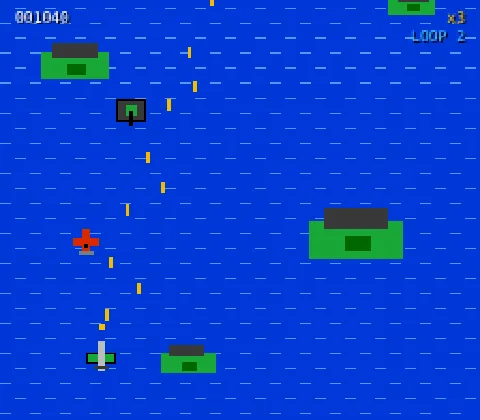
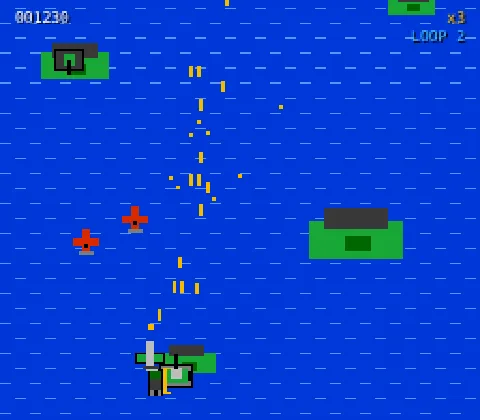
Skyfire 42: add archer unit
Claude-Session: https://claude.ai/code/session_01TLKWsn45b5mPjBKpKawYZm

diff --git a/games/skyfire-42/index.html b/games/skyfire-42/index.html
@@ -81,7 +81,7 @@ button:focus-visible{outline:2px solid #fff;outline-offset:2px}
       <button type="button" data-k="start">START</button>
     </div>
   </section>
-  <p class="keys"><b>Keys:</b> At the start press Z for the PLANE or X for the TANK; the other is flown by the computer. Arrows move, hold Z or X to fire, the other button does a loop-the-loop (2 per game: dodge everything for a second). Shoot the red wave for POW, beat the big bomber. Enter starts, M mutes.</p>
+  <p class="keys"><b>Keys:</b> At the start pick PLANE, TANK or ARCHER with left/right and Z; the computer plays the other two. Arrows move, hold Z or X to fire, the other button does a loop-the-loop (2 per game: dodge everything for a second). Shoot the red wave for POW, beat the big bomber. Enter starts, M mutes.</p>
 </main>
 
 <script>
@@ -861,7 +861,7 @@ const RIG = (() => {
   return R;
 })();
 
-// KEYS: At the start press Z for the PLANE or X for the TANK; the other is flown by the computer. Arrows move, hold Z or X to fire, the other button does a loop-the-loop (2 per game: dodge everything for a second). Shoot the red wave for POW, beat the big bomber.
+// KEYS: At the start pick PLANE, TANK or ARCHER with left/right and Z; the computer plays the other two. Arrows move, hold Z or X to fire, the other button does a loop-the-loop (2 per game: dodge everything for a second). Shoot the red wave for POW, beat the big bomber.
 /* ===== G47 SKYFIRE 42: vertical scrolling shooter in the cabinet's simple blocky style. Formations of fighters, red waves that drop POW (twin / triple shot), bombers, loop-the-loop dodge, boss bomber at the end. ===== */
 const T47 = { spd:84, cd:.13, bul:210, ebul:62, lives:3, loops:2, loopT:.85, boss:{ t:50, hp:55 }, time:100 };
 const W47 = [  /* [time, kind, count] */ [2, 'zig', 5], [6, 'vee', 5], [10, 'side', 4], [14, 'red', 5], [18, 'zig', 6], [21, 'bomber', 1], [24, 'vee', 7], [28, 'side', 5], [32, 'red', 6], [36, 'zig', 7], [39, 'bomber', 2], [43, 'vee', 7], [46, 'red', 6]];
@@ -874,17 +874,18 @@ function spawn47(S, k, n) { const R = () => S.rng();
     if (k === 'side') { const dir = S.wave % 2 ? 1 : -1; e.x = dir > 0 ? -10 - i * 16 : 266 + i * 16; e.y = 30 + (i % 2) * 14; e.vx = dir * 62; e.vy = 14; }
     if (k === 'red') { e.x = 40 + i * 26; e.y = -10 - i * 12; e.vy = 46; e.sx = e.x; }
     S.en.push(e); } S.wave++; }
-function hit47(S,w){const P=w==='t'?S.t:S.p;if(P.inv>0)return;P.lives--;P.inv=2;P.pow=0;P.flash=.3;burst(S,P.x,P.y,O,12);ENG.impact(S,'weak');sfx('hit');}
+function hit47(S,w){const P=w==='t'?S.t:w==='a'?S.ar:S.p;if(P.inv>0)return;P.lives--;P.inv=2;P.pow=0;P.flash=.3;burst(S,P.x,P.y,O,12);ENG.impact(S,'weak');sfx('hit');}
 function aiPlane47(S, i) { const P = S.p; if (S.win) return i; i.a = 1; let best = P.x, bs = -1e9; for (let x = 12; x <= 244; x += 6) { let s = 0; for (const b of S.eb) { const dy = P.y - b.y; if (dy > -6 && dy < 70) { const t = Math.max(.05, Math.abs(dy) / Math.max(20, b.vy)), bx = b.x + b.vx * t, d = Math.abs(bx - x); if (d < 18) s -= (18 - d) * (70 - Math.abs(dy)) * .12; } } for (const e of S.en) { const dy = P.y - e.y; if (dy > -4 && dy < 40 && Math.abs(e.x - x) < 14) s -= 30; if (e.y < P.y && Math.abs(e.x - x) < 6) s += 8; } if (S.boss && Math.abs(S.boss.x - x) < 14) s += 14; for (const q of S.pw) s += Math.max(0, 40 - Math.abs(q.x - x)) * .3; s -= Math.abs(x - P.x) * .02; if (s > bs) { bs = s; best = x; } }
     if (best > P.x + 3) i.r = 1; else if (best < P.x - 3) i.l = 1; const danger = S.eb.some(b => Math.abs(b.x - P.x) < 7 && P.y - b.y > -4 && P.y - b.y < 20) || S.en.some(e => Math.abs(e.x - P.x) < 11 && Math.abs(e.y - P.y) < 14); const wantY = P.y < 180 ? 1 : 0; if (wantY) i.d = 1; if (danger && P.loops > 0 && P.inv <= 0 && P.loop <= 0 && S.rt % .2 < .1) { i.b = 1; } return i; }
-function aiTank47(S, i) { const T = S.t; i.a = 1; let best = T.x, bs = -1e9; for (let x = 12; x <= 244; x += 6) { let sc = 0; for (const b of S.eb) { const dy = T.y - b.y; if (dy > -6 && dy < 70) { const t = Math.max(.05, Math.abs(dy) / Math.max(20, b.vy)), bx = b.x + b.vx * t; if (Math.abs(bx - x) < 16) sc -= (16 - Math.abs(bx - x)) * (70 - Math.abs(dy)) * .12; } } for (const e of S.en.concat(S.gr)) if (e.y < T.y && Math.abs(e.x - x) < 6) sc += 6; if (S.boss && Math.abs(S.boss.x - x) < 12) sc += 14; sc -= Math.abs(x - T.x) * .02; if (sc > bs) { bs = sc; best = x; } } if (best > T.x + 3) i.r = 1; else if (best < T.x - 3) i.l = 1; return i; }
+function aiTank47(S, i, T0) { const T = T0 || S.t; i.a = 1; let best = T.x, bs = -1e9; for (let x = 12; x <= 244; x += 6) { let sc = 0; for (const b of S.eb) { const dy = T.y - b.y; if (dy > -6 && dy < 70) { const t = Math.max(.05, Math.abs(dy) / Math.max(20, b.vy)), bx = b.x + b.vx * t; if (Math.abs(bx - x) < 16) sc -= (16 - Math.abs(bx - x)) * (70 - Math.abs(dy)) * .12; } } for (const e of S.en.concat(S.gr)) if (e.y < T.y && Math.abs(e.x - x) < 6) sc += 6; if (S.boss && Math.abs(S.boss.x - x) < 12) sc += 14; sc -= Math.abs(x - T.x) * .02; if (sc > bs) { bs = sc; best = x; } } if (best > T.x + 3) i.r = 1; else if (best < T.x - 3) i.l = 1; return i; }
 const GAME = kit({ id:'g47', t1:'SKYFIRE', t2:'42', sub:'LOOP. SHOOT. SURVIVE.', seed:947, off:47, secs:60, music:MUS(158, -14, false),
-  setup(S) { S.p = pl47(); S.bul = []; S.en = []; S.eb = []; S.pw = []; S.rt = 0; S.wave = 0; S.wi = 0; S.boss = null; S.pA = 0; S.pB = 0; S.sy = 0; S.fx = []; S.redLeft = {}; S.kills = 0; S.win = 0; S.mode = null; S.t = { x:128, y:200, lives:3, inv:1.5, cd:0 }; S.gr = []; S.gn = 3; },
-  step(S, dt, inp0) { const P = S.p, C = T47, T = S.t; if (!S.mode) { if (inp0.a && !S.pA) S.mode = 'plane'; else if (inp0.b && !S.pB) S.mode = 'tank'; S.pA = inp0.a; S.pB = inp0.b; if (!S.mode) return; }
-    const inp = S.mode === 'plane' ? inp0 : aiPlane47(S, {}), it = S.mode === 'tank' ? inp0 : aiTank47(S, {}); if (S.mode === 'plane' && T.lives <= 0) T.lives = 3; if (S.mode === 'tank' && P.lives <= 0) P.lives = 3; S.rt += dt; T.cd -= dt; T.inv -= dt;
+  setup(S) { S.p = pl47(); S.bul = []; S.en = []; S.eb = []; S.pw = []; S.rt = 0; S.wave = 0; S.wi = 0; S.boss = null; S.pA = 0; S.pB = 0; S.sy = 0; S.fx = []; S.redLeft = {}; S.kills = 0; S.win = 0; S.mode = null; S.cur = 0; S.pl = 0; S.pr = 0; S.ar = { x:64, y:204, lives:3, inv:1.5, cd:0 }; S.t = { x:128, y:200, lives:3, inv:1.5, cd:0 }; S.gr = []; S.gn = 3; },
+  step(S, dt, inp0) { const P = S.p, C = T47, T = S.t; if (!S.mode) { if (inp0.r && !S.pr) S.cur = (S.cur + 1) % 3; if (inp0.l && !S.pl) S.cur = (S.cur + 2) % 3; if ((inp0.a && !S.pA) || (inp0.b && !S.pB)) S.mode = ['plane', 'tank', 'archer'][S.cur]; S.pr = inp0.r; S.pl = inp0.l; S.pA = inp0.a; S.pB = inp0.b; if (!S.mode) return; }
+    const inp = S.mode === 'plane' ? inp0 : aiPlane47(S, {}), it = S.mode === 'tank' ? inp0 : aiTank47(S, {}), ia = S.mode === 'archer' ? inp0 : aiTank47(S, {}, S.ar), A = S.ar; if (S.mode !== 'tank' && T.lives <= 0) T.lives = 3; if (S.mode !== 'plane' && P.lives <= 0) P.lives = 3; if (S.mode !== 'archer' && A.lives <= 0) A.lives = 3; A.cd -= dt; A.inv -= dt; S.rt += dt; T.cd -= dt; T.inv -= dt;
     { const dx = (it.r ? 1 : 0) - (it.l ? 1 : 0), dy = (it.d ? 1 : 0) - (it.u ? 1 : 0); T.x = Math.max(8, Math.min(248, T.x + dx * 52 * dt)); T.y = Math.max(150, Math.min(212, T.y + dy * 40 * dt)); if ((it.a || it.b) && T.cd <= 0) { T.cd = .3; S.bul.push({ x:T.x, y:T.y - 9, vx:0, vy:-170 }); } }
+    { const dx = (ia.r ? 1 : 0) - (ia.l ? 1 : 0), dy = (ia.d ? 1 : 0) - (ia.u ? 1 : 0); A.x = Math.max(6, Math.min(250, A.x + dx * 66 * dt)); A.y = Math.max(150, Math.min(214, A.y + dy * 50 * dt)); if ((ia.a || ia.b) && A.cd <= 0) { A.cd = .26; S.bul.push({ x:A.x - 2, y:A.y - 8, vx:0, vy:-215 }); S.bul.push({ x:A.x + 2, y:A.y - 8, vx:0, vy:-215 }); } }
     S.gn -= dt; if (S.gn <= 0 && S.rt < C.boss.t - 4) { S.gn = 2.6 + S.rng() * 1.6; const n = 1 + (S.rng() * 2 | 0); for (let q = 0; q < n; q++) S.gr.push({ k:q % 3 === 2 ? 'gun' : 'gt', x:30 + S.rng() * 196, y:-12 - q * 22, hp:q % 3 === 2 ? 3 : 2, t:0, shot:1.5 + S.rng() * 2, vx:(S.rng() - .5) * 18 }); }
-    for (const g of S.gr) { g.t += dt; g.y += 28 * dt; if (g.k === 'gt') g.x += g.vx * dt; g.shot -= dt; if (g.shot <= 0 && g.y > 4 && g.y < 150) { g.shot = 2.4 + S.rng() * 1.6; const a = Math.atan2(T.y - g.y, T.x - g.x); S.eb.push({ x:g.x, y:g.y, vx:Math.cos(a) * C.ebul * .9, vy:Math.sin(a) * C.ebul * .9 }); } for (const b of S.bul) if (!b.dead && Math.abs(b.x - g.x) < 9 && Math.abs(b.y - g.y) < 7) { b.dead = true; g.hp--; g.flash = .08; if (g.hp <= 0) { g.dead = true; S.score += 80; S.kills++; burst(S, g.x, g.y, O, 8); sfx('hit'); } break; } if (!g.dead && T.inv <= 0 && Math.abs(T.x - g.x) < 10 && Math.abs(T.y - g.y) < 8) { g.dead = true; hit47(S, 't'); } if (g.y > 236) g.dead = true; }
+    for (const g of S.gr) { g.t += dt; g.y += 28 * dt; if (g.k === 'gt') g.x += g.vx * dt; g.shot -= dt; if (g.shot <= 0 && g.y > 4 && g.y < 150) { g.shot = 2.4 + S.rng() * 1.6; const tt = S.rng() < .5 ? T : A, a = Math.atan2(tt.y - g.y, tt.x - g.x); S.eb.push({ x:g.x, y:g.y, vx:Math.cos(a) * C.ebul * .9, vy:Math.sin(a) * C.ebul * .9 }); } for (const b of S.bul) if (!b.dead && Math.abs(b.x - g.x) < 9 && Math.abs(b.y - g.y) < 7) { b.dead = true; g.hp--; g.flash = .08; if (g.hp <= 0) { g.dead = true; S.score += 80; S.kills++; burst(S, g.x, g.y, O, 8); sfx('hit'); } break; } if (!g.dead && A.inv <= 0 && Math.abs(A.x - g.x) < 8 && Math.abs(A.y - g.y) < 8) { g.dead = true; hit47(S, 'a'); } if (!g.dead && T.inv <= 0 && Math.abs(T.x - g.x) < 10 && Math.abs(T.y - g.y) < 8) { g.dead = true; hit47(S, 't'); } if (g.y > 236) g.dead = true; }
     S.gr = S.gr.filter(g => !g.dead); S.sy = (S.sy + 28 * dt) % 224; P.cd -= dt; P.inv -= dt; P.flash -= dt; if (S.win) { S.win += dt; if (S.win > 2.2) return finish(S, 'MISSION CLEAR', S.score + P.lives * 500 + P.loops * 200); return; }
     if (P.loop > 0) { P.loop -= dt; } else { const dx = (inp.r ? 1 : 0) - (inp.l ? 1 : 0), dy = (inp.d ? 1 : 0) - (inp.u ? 1 : 0), n = Math.hypot(dx, dy) || 1; P.x = Math.max(8, Math.min(248, P.x + dx / n * C.spd * dt)); P.y = Math.max(20, Math.min(212, P.y + dy / n * C.spd * dt)); P.bank = dx; }
     const ea = inp.a && !S.pA, eb = inp.b && !S.pB; S.pA = inp.a; S.pB = inp.b; if ((ea || eb) && P.loops > 0 && P.loop <= 0 && S.pFireOnly === undefined) { /* tap = loop only if the other button is held (hold one to fire, tap other to loop) */ }
@@ -895,22 +896,23 @@ const GAME = kit({ id:'g47', t1:'SKYFIRE', t2:'42', sub:'LOOP. SHOOT. SURVIVE.',
     for (const b of S.bul) { b.x += b.vx * dt; b.y += b.vy * dt; if (b.y < -8) b.dead = true; }
     for (const e of S.en) { e.t += dt; e.flash = Math.max(0, (e.flash || 0) - dt);
       if (e.k === 'zig') { e.y += e.vy * dt; e.x = e.ox + Math.sin(e.t * 2.2 + e.i * .5) * 52; } else if (e.k === 'vee') { e.y += e.vy * dt; if (e.y > 90) e.y += 30 * dt; } else if (e.k === 'side') { e.x += e.vx * dt; e.y += e.vy * dt; } else if (e.k === 'red') { e.y += e.vy * dt; e.x = e.sx + Math.sin(e.t * 3) * 16; } else if (e.k === 'bomber') { e.y = Math.min(52, e.y + e.vy * dt); e.x += Math.sin(e.t * .8) * 18 * dt; }
-      e.shot -= dt; if (e.shot <= 0 && e.y > 6 && e.y < 160) { e.shot = e.k === 'bomber' ? 1.3 : 2.4 + S.rng() * 2; const tg = S.rng() < .4 ? T : P, a = Math.atan2(tg.y - e.y, tg.x - e.x), n = e.k === 'bomber' ? 3 : 1; for (let q = 0; q < n; q++) S.eb.push({ x:e.x, y:e.y + 6, vx:Math.cos(a + (q - (n - 1) / 2) * .28) * C.ebul, vy:Math.sin(a + (q - (n - 1) / 2) * .28) * C.ebul }); }
+      e.shot -= dt; if (e.shot <= 0 && e.y > 6 && e.y < 160) { e.shot = e.k === 'bomber' ? 1.3 : 2.4 + S.rng() * 2; const r3 = S.rng(), tg = r3 < .3 ? T : r3 < .6 ? A : P, a = Math.atan2(tg.y - e.y, tg.x - e.x), n = e.k === 'bomber' ? 3 : 1; for (let q = 0; q < n; q++) S.eb.push({ x:e.x, y:e.y + 6, vx:Math.cos(a + (q - (n - 1) / 2) * .28) * C.ebul, vy:Math.sin(a + (q - (n - 1) / 2) * .28) * C.ebul }); }
       for (const b of S.bul) if (!b.dead && Math.abs(b.x - e.x) < (e.k === 'bomber' ? 13 : 8) && Math.abs(b.y - e.y) < (e.k === 'bomber' ? 9 : 7)) { b.dead = true; e.hp--; e.flash = .08; if (e.hp <= 0) { e.dead = true; S.score += e.k === 'bomber' ? 400 : 50; S.kills++; burst(S, e.x, e.y, e.k === 'bomber' ? O : Y, e.k === 'bomber' ? 14 : 6); sfx('hit'); if (e.red) { S.redLeft[e.wave || 0]; const sib = S.en.filter(q => q.red && !q.dead && q !== e).length; if (!sib && !e.gaveOne) S.pw.push({ x:e.x, y:e.y }); } } break; }
       if (!e.dead && P.inv <= 0 && Math.abs(P.x - e.x) < 9 && Math.abs(P.y - e.y) < 8) { e.dead = true; hit47(S); } if (e.y > 236 || e.x < -30 || e.x > 286) e.dead = true; }
     if (S.boss) { const B = S.boss; B.t += dt; B.flash = Math.max(0, B.flash - dt); B.y = Math.min(42, B.y + 28 * dt); B.x += B.vx * dt; if (B.x < 50 || B.x > 206) B.vx *= -1; B.shot -= dt;
       if (B.shot <= 0 && B.y > 20) { B.shot = B.hp < B.max / 2 ? .7 : 1.1; B.phase++; const n = B.hp < B.max / 2 ? 7 : 5; for (let q = 0; q < n; q++) { const a = Math.PI / 2 + (q - (n - 1) / 2) * .26 + Math.sin(B.phase) * .15; S.eb.push({ x:B.x, y:B.y + 12, vx:Math.cos(a) * C.ebul * 1.1, vy:Math.sin(a) * C.ebul * 1.1 }); } }
       for (const b of S.bul) if (!b.dead && Math.abs(b.x - B.x) < 26 && Math.abs(b.y - B.y) < 14) { b.dead = true; B.hp--; B.flash = .06; S.score += 5; if (B.hp <= 0) { S.win = .001; S.score += 3000; for (let k = 0; k < 6; k++) burst(S, B.x + (S.rng() - .5) * 40, B.y + (S.rng() - .5) * 16, k % 2 ? O : Y, 12); ENG.impact(S, 'strong'); S.eb = []; S.boss = null; break; } }
       if (S.boss && P.inv <= 0 && Math.abs(P.x - B.x) < 24 && Math.abs(P.y - B.y) < 12) hit47(S); }
-    for (const b of S.eb) { b.x += b.vx * dt; b.y += b.vy * dt; if (b.y > 232 || b.y < -8 || b.x < -8 || b.x > 264) b.dead = true; else if (P.inv <= 0 && P.loop <= 0 && Math.abs(b.x - P.x) < 4 && Math.abs(b.y - P.y) < 5) { b.dead = true; hit47(S); } else if (T.inv <= 0 && Math.abs(b.x - T.x) < 6 && Math.abs(b.y - T.y) < 6) { b.dead = true; hit47(S, 't'); } }
+    for (const b of S.eb) { b.x += b.vx * dt; b.y += b.vy * dt; if (b.y > 232 || b.y < -8 || b.x < -8 || b.x > 264) b.dead = true; else if (P.inv <= 0 && P.loop <= 0 && Math.abs(b.x - P.x) < 4 && Math.abs(b.y - P.y) < 5) { b.dead = true; hit47(S); } else if (T.inv <= 0 && Math.abs(b.x - T.x) < 6 && Math.abs(b.y - T.y) < 6) { b.dead = true; hit47(S, 't'); } else if (A.inv <= 0 && Math.abs(b.x - A.x) < 4 && Math.abs(b.y - A.y) < 6) { b.dead = true; hit47(S, 'a'); } }
     for (const q of S.pw) { q.y += 22 * dt; if (Math.abs(q.x - P.x) < 11 && Math.abs(q.y - P.y) < 11) { q.dead = true; P.pow = Math.min(2, P.pow + 1); S.score += 200; sfx('go'); } else if (q.y > 232) q.dead = true; }
     S.bul = S.bul.filter(b => !b.dead); S.en = S.en.filter(e => !e.dead); S.eb = S.eb.filter(b => !b.dead); S.pw = S.pw.filter(q => !q.dead);
-    if ((S.mode === 'plane' ? P.lives : T.lives) <= 0) return finish(S, 'SHOT DOWN', S.score); if (S.rt > C.time) return finish(S, 'TIME', S.score); },
-  draw(S) { const P = S.p; rect(0, 0, 256, 224, B); for (let y = 0; y < 224; y += 8) { const yy = (y + Math.floor(S.sy)) % 224; for (let x = (y / 8 % 2) * 8; x < 256; x += 16) rect(x, yy, 6, 1, SKY); }
+    if ((S.mode === 'plane' ? P.lives : S.mode === 'tank' ? T.lives : A.lives) <= 0) return finish(S, 'SHOT DOWN', S.score); if (S.rt > C.time) return finish(S, 'TIME', S.score); },
+  draw(S) { const P = S.p, T = S.t, A = S.ar; rect(0, 0, 256, 224, B); for (let y = 0; y < 224; y += 8) { const yy = (y + Math.floor(S.sy)) % 224; for (let x = (y / 8 % 2) * 8; x < 256; x += 16) rect(x, yy, 6, 1, SKY); }
     for (const [ix, iy, s] of [[40, 40, 1], [190, 130, 1.4], [100, 200, .8], [220, 10, .7]]) { const y = (iy + S.sy) % 300 - 40, x = ix; rect(x - 18 * s, y, 36 * s, 14 * s, GR); rect(x - 12 * s, y - 5 * s, 24 * s, 8 * s, DG); rect(x - 4 * s, y + 6 * s, 10 * s, 6 * s, F); }
     for (const q of S.pw) { rect(q.x - 7, q.y - 7, 14, 14, W); rect(q.x - 6, q.y - 6, 12, 12, R); txt('P', q.x, q.y - 4, W, 8, 'center'); }
     for (const g of S.gr) { const x = Math.round(g.x), y = Math.round(g.y), f = g.flash > 0; if (g.k === 'gt') { rect(x - 8, y - 6, 16, 12, K); rect(x - 7, y - 5, 14, 10, f ? W : DG); rect(x - 3, y - 3, 6, 6, GR); rect(x - 1, y, 2, 8, K); } else { rect(x - 7, y - 7, 14, 14, K); rect(x - 6, y - 6, 12, 12, f ? W : BRK); rect(x - 2, y - 2, 4, 4, R); } }
     if (S.mode && T.lives > 0 && !(T.inv > 0 && (Math.floor(S.rt * 14) & 1))) { const x = Math.round(T.x), y = Math.round(T.y); rect(x - 9, y - 6, 18, 13, K); rect(x - 8, y - 5, 16, 3, D); rect(x - 8, y + 3, 16, 3, D); rect(x - 6, y - 3, 12, 7, GR); rect(x - 3, y - 4, 6, 6, L); rect(x - 1, y - 11, 2, 8, K); }
+    if (S.mode && A.lives > 0 && !(A.inv > 0 && (Math.floor(S.rt * 14) & 1))) { const x = Math.round(A.x), y = Math.round(A.y); rect(x - 4, y - 7, 8, 14, K); rect(x - 3, y - 6, 6, 4, F); rect(x - 3, y - 2, 6, 6, DG); rect(x - 3, y + 4, 2, 3, D); rect(x + 1, y + 4, 2, 3, D); rect(x + 4, y - 8, 2, 14, Y); rect(x + 4, y - 8, 4, 1, Y); rect(x + 4, y + 5, 4, 1, Y); rect(x - 1, y - 9, 2, 3, L); }
     for (const e of S.en) { const x = Math.round(e.x), y = Math.round(e.y), f = e.flash > 0;
       if (e.k === 'bomber') { rect(x - 14, y - 3, 28, 6, f ? W : GR); rect(x - 4, y - 10, 8, 20, f ? W : L); rect(x - 14, y - 4, 4, 3, D); rect(x + 10, y - 4, 4, 3, D); rect(x - 2, y + 8, 4, 4, DG); }
       else { const c = e.red ? R : e.k === 'zig' ? M : e.k === 'vee' ? S : GR; rect(x - 7, y - 2, 14, 4, f ? W : c); rect(x - 2, y - 7, 4, 14, f ? W : c); rect(x - 4, y + 5, 8, 2, f ? W : D); rect(x - 1, y + 1, 2, 2, K); } }
@@ -918,12 +920,12 @@ const GAME = kit({ id:'g47', t1:'SKYFIRE', t2:'42', sub:'LOOP. SHOOT. SURVIVE.',
     for (const b of S.bul) rect(Math.round(b.x) - 1, Math.round(b.y) - 3, 2, 6, Y);
     for (const b of S.eb) { rect(Math.round(b.x) - 2, Math.round(b.y) - 2, 4, 4, W); rect(Math.round(b.x) - 1, Math.round(b.y) - 1, 2, 2, R); }
     if (P.lives > 0) { const x = Math.round(P.x), y = Math.round(P.y), blink = P.inv > 0 && P.loop <= 0 && (Math.floor(S.rt * 14) & 1), lp = P.loop > 0, k = lp ? Math.floor(P.loop * 14) & 3 : -1; if (!blink) { const w = lp ? [14, 9, 4, 9][k] : 14; rect(x - w / 2 - 1, y - 2, w + 2, 6, K); rect(x - w / 2, y - 1, w, 4, lp ? Y : GR); rect(x - 2, y - 8, 4, 16, lp ? W : L); rect(x - 4, y + 5, 8, 2, DG); if (P.pow > 0) { rect(x - 9, y - 1, 3, 3, Y); rect(x + 6, y - 1, 3, 3, Y); } if (P.pow > 1) rect(x - 1, y - 11, 2, 3, Y); } }
-    if (S.mode) { const h = S.mode === 'plane' ? P : T; rect(Math.round(h.x) - 1, Math.round(h.y) - 17, 3, 3, Y); }
-    if (!S.mode) { rect(30, 80, 196, 60, K); rect(32, 82, 192, 56, B); rect(40, 108, 20, 8, GR); rect(48, 102, 4, 20, L); rect(176, 106, 20, 12, GR); rect(184, 100, 4, 8, L); }
+    if (S.mode) { const h = S.mode === 'plane' ? P : S.mode === 'tank' ? T : A; rect(Math.round(h.x) - 1, Math.round(h.y) - 17, 3, 3, Y); }
+    if (!S.mode) { rect(24, 80, 208, 60, K); rect(26, 82, 204, 56, B); rect(46, 108, 20, 6, GR); rect(54, 100, 4, 20, L); rect(116, 106, 20, 12, GR); rect(124, 100, 4, 8, L); rect(190, 104, 8, 14, DG); rect(200, 100, 2, 20, Y); rect(S.cur * 70 + 38, 124, 36, 2, Y); }
     if (S.boss) { const B = S.boss; rect(60, 20, 136, 6, W); rect(61, 21, 134, 4, K); rect(61, 21, Math.round(134 * Math.max(0, B.hp) / B.max), 4, R); } },
-  hud(S) { if (!S.mode) { txt('CHOOSE YOUR UNIT', 128, 86, Y, 8, 'center'); txt('Z PLANE', 76, 124, W, 8, 'center'); txt('X TANK', 186, 124, W, 8, 'center'); return; } txt(String(S.score).padStart(6, '0'), 8, 6, W, 8); txt('x' + Math.max(0, S.mode === 'plane' ? S.p.lives : S.t.lives), 248, 6, Y, 8, 'right'); if (S.mode === 'plane') txt('LOOP ' + S.p.loops, 248, 16, CY, 8, 'right'); if (S.rt < 2.2) txt('GET READY', 128, 100, Y, 16, 'center'); if (S.win) txt('MISSION CLEAR', 128, 90, Y, 16, 'center'); hintS(S, S.mode === 'tank' ? 'ARROWS DRIVE  HOLD Z FIRE' : 'ARROWS FLY  HOLD Z FIRE  Z+X LOOP', 8, 212); },
-  info(S) { return { unit:S.mode, tl:S.t.lives, gr:S.gr.length, lives:S.p.lives, loops:S.p.loops, pow:S.p.pow, en:S.en.length, eb:S.eb.length, boss:S.boss ? S.boss.hp : -1, kills:S.kills, x:Math.round(S.p.x), t:+S.rt.toFixed(1) }; },
-  bot(S, i) { if (!S.mode) { if (typeof location !== 'undefined' && /tank/.test(location.search)) i.b = 1; else i.a = 1; return i; } return S.mode === 'plane' ? aiPlane47(S, i) : aiTank47(S, i); } });
+  hud(S) { if (!S.mode) { txt('CHOOSE YOUR UNIT', 128, 86, Y, 8, 'center'); txt('PLANE', 56, 128, W, 8, 'center'); txt('TANK', 126, 128, W, 8, 'center'); txt('ARCHER', 196, 128, W, 8, 'center'); txt('< > PICK  Z GO', 128, 148, CY, 8, 'center'); return; } txt(String(S.score).padStart(6, '0'), 8, 6, W, 8); txt('x' + Math.max(0, S.mode === 'plane' ? S.p.lives : S.mode === 'tank' ? S.t.lives : S.ar.lives), 248, 6, Y, 8, 'right'); if (S.mode === 'plane') txt('LOOP ' + S.p.loops, 248, 16, CY, 8, 'right'); if (S.rt < 2.2) txt('GET READY', 128, 100, Y, 16, 'center'); if (S.win) txt('MISSION CLEAR', 128, 90, Y, 16, 'center'); hintS(S, S.mode !== 'plane' ? 'ARROWS MOVE  HOLD Z FIRE' : 'ARROWS FLY  HOLD Z FIRE  Z+X LOOP', 8, 212); },
+  info(S) { return { unit:S.mode, al:S.ar.lives, tl:S.t.lives, gr:S.gr.length, lives:S.p.lives, loops:S.p.loops, pow:S.p.pow, en:S.en.length, eb:S.eb.length, boss:S.boss ? S.boss.hp : -1, kills:S.kills, x:Math.round(S.p.x), t:+S.rt.toFixed(1) }; },
+  bot(S, i) { if (!S.mode) { const want = typeof location !== 'undefined' ? (/archer/.test(location.search) ? 2 : /tank/.test(location.search) ? 1 : 0) : 0; if (S.cur !== want) { if (S.rt === 0 && (S.pr ? 0 : 1)) i.r = 1; } else i.a = 1; return i; } return S.mode === 'plane' ? aiPlane47(S, i) : aiTank47(S, i, S.mode === 'archer' ? S.ar : S.t); } });
 
 /* ---------- shell: title / play / over flow, loop, test hooks ---------- */
 let mode = 'title', overT = 0, result = null, hi = 0, blink = 0, botOn = false, persona = 'expert', plag = [], plcg = 12345, tms = 0;

diff --git a/games/index.html b/games/index.html
@@ -76,4 +76,4 @@
 <li><a href="pumpkin-patch-panic/">Pumpkin Patch Panic</a> <small>— <a href="https://github.com/bparlette/Hawk/tree/main/games/pumpkin-patch-panic/_source">source</a></small></li>
 <li><a href="g17f-world/">Vampire Metroid HD World</a> — rig-painted world edition of the hive shooter (gamepress tier system).</li>
 <li><a href="g17g-3d/">Vampire Metroid 3D</a> — Three.js 3D spike of the same sim (experimental).</li>
-</ul><p><small>Each game plays at games/&lt;slug&gt;/; its source is in games/&lt;slug&gt;/_source/.</small></p><ul><li><a class=c href=g17/><b>Vampire Metroid</b><span>pixel tier, new tall shell</span></a></li><li><a class=c href=g17-hd/><b>Vampire Metroid HD</b><span>painted edition</span></a></li><li><a class=c href=g17b-hd/><b>Vampire Metroid HD+</b><span>game-feel edition</span></a></li><li><a class=c href=g17c-art/><b>Vampire Metroid HD Art</b><span>SVG rig + WebGL</span></a></li><li><a class=c href=g17d-lux/><b>Vampire Metroid HD Lux</b><span>SVG environment, shader lights</span></a></li><li><a class=c href=g17e-close/><b>Vampire Metroid HD Close</b><span>follow camera, analog pad</span></a></li><li><a class=c href=bmx/><b>BMX Downhill Rush</b><span>cabinet edition (Excitebike x Skate or Die)</span></a></li><li><a class=c href=g1/><b>Block Commando</b><span>Contra x Tetris</span></a></li><li><a class=c href=g2/><b>Disc Fighters</b><span>Windjammers x Street Fighter II</span></a></li><li><a class=c href=g3/><b>Paper Rash</b><span>Paperboy x Road Rash</span></a></li><li><a class=c href=g4/><b>Boom Balloons</b><span>Balloon Fight x Bomberman</span></a></li><li><a class=c href=g5/><b>Grapple Ninja</b><span>Bionic Commando x Ninja Gaiden</span></a></li><li><a class=c href=g6/><b>Kung Fu Knockout</b><span>Kung-Fu Master x Punch-Out!!</span></a></li><li><a class=c href=g7/><b>Maze Wrecker</b><span>Pac-Man x Wrecking Crew</span></a></li><li><a class=c href=g8/><b>Morph Climb</b><span>Metroid x Kid Icarus</span></a></li><li><a class=c href=g9/><b>Dig Up</b><span>Dig Dug x Ice Climber</span></a></li><li><a class=c href=g10/><b>Gridlock Grand Prix</b><span>Pole Position x Frogger</span></a></li><li><a class=c href=g11/><b>Hop Fight</b><span>Q*bert x Joust</span></a></li><li><a class=c href=g12/><b>Blade Punch</b><span>Punch-Out!! x Blade Ball</span></a></li><li><a class=c href=g13/><b>Balatro Grand Prix</b><span>Mario Kart x Balatro</span></a></li><li><a class=c href=g14/><b>Buckshot Saloon</b><span>Sunset Riders x Buckshot Roulette</span></a></li><li><a class=c href=g15/><b>Kong Calamity</b><span>Donkey Kong Country x Natural Disaster Survival</span></a></li><li><a class=c href=g16/><b>Lethal Castlevania</b><span>Symphony of the Night x Lethal Company</span></a></li><li><a class=c href=g18/><b>Tower of Yoshi</b><span>Super Mario World x Tower of Hell</span></a></li><li><a class=c href=g19/><b>Mushroom BedWars</b><span>Super Mario Bros 3 x BedWars</span></a></li><li><a class=c href=g20/><b>Contra Helldivers</b><span>Contra x Helldivers 2</span></a></li><li><a class=c href=g21/><b>Hyrule DOORS</b><span>A Link to the Past x DOORS</span></a></li><li><a class=c href=g22/><b>Onett Mart Sim</b><span>EarthBound x Supermarket Simulator</span></a></li><li><a class=c href=g23/><b>Fisch of Mana</b><span>Secret of Mana x FISCH</span></a></li><li><a class=c href=g24/><b>Liars Tavern</b><span>Chrono Trigger x Liars Bar</span></a></li><li><a class=c href=g25/><b>SpookSnap 64</b><span>Pokemon Snap x Content Warning</span></a></li><li><a class=c href=g26/><b>Pet Quest 99</b><span>Dragon Quest x Pet Simulator 99</span></a></li><li><a class=c href=g27/><b>Deep Rock Dig Dug</b><span>Dig Dug x Deep Rock Galactic</span></a></li><li><a class=c href=g28/><b>Four Swords Murder</b><span>Four Swords x Murder Mystery 2</span></a></li><li><a class=c href=g29/><b>Dress to Quest</b><span>Final Fantasy VI x Dress to Impress</span></a></li><li><a class=c href=g30/><b>River City Cartel</b><span>River City Ransom x crime sim</span></a></li><li><a class=c href=g31/><b>Pal Harvest</b><span>Harvest Moon x Palworld</span></a></li><li><a class=c href=locker-room-last-stand/><b>Locker Room Last Stand</b><span>soldier vs zombies, native 8-bit rig</span></a></li><li><a class=c href=street-round/><b>Street Round</b><span>one-round arcade fighter</span></a></li><li><a class=c href=ryu-vs-guile/><b>Ryu vs Guile</b><span>full move list, one round</span></a></li><li><a class=c href=ryu-vs-guile-16bit/><b>Ryu vs Guile 16-bit</b><span>same fight, vector-drawn 16-bit look</span></a></li><li><a class=c href=floppy-race/><b>Floppy Race</b><span>ragdoll sprint: tap, jump, faceplant</span></a></li><li><a class=c href=training-dojo/><b>Training Dojo</b><span>dummy drill with the full move list</span></a></li><li><a class=c href=tournament-ladder/><b>Tournament Ladder</b><span>three fights, no health refill</span></a></li><li><a class=c href=boss-rush/><b>Boss Rush</b><span>one armoured boss</span></a></li><li><a class=c href=street-brawl/><b>Street Brawl</b><span>three gang waves and a boss</span></a></li><li><a class=c href=sumo-shove/><b>Sumo Shove</b><span>alternate-tap ring shove</span></a></li><li><a class=c href=fireball-dodgeball/><b>Fireball Dodgeball</b><span>jump low, duck high</span></a></li><li><a class=c href=grapple-duel/><b>Grapple Duel</b><span>strike, guard, throw mind game</span></a></li><li><a class=c href=crypt-gauntlet/><b>Crypt Gauntlet</b><span>top-down dungeon crawl: keys, food, bone piles</span></a></li><li><a class=c href=skyfire-42/><b>Skyfire 42</b><span>pick plane or tank, CPU flies the other</span></a></li></ul></body></html>
+</ul><p><small>Each game plays at games/&lt;slug&gt;/; its source is in games/&lt;slug&gt;/_source/.</small></p><ul><li><a class=c href=g17/><b>Vampire Metroid</b><span>pixel tier, new tall shell</span></a></li><li><a class=c href=g17-hd/><b>Vampire Metroid HD</b><span>painted edition</span></a></li><li><a class=c href=g17b-hd/><b>Vampire Metroid HD+</b><span>game-feel edition</span></a></li><li><a class=c href=g17c-art/><b>Vampire Metroid HD Art</b><span>SVG rig + WebGL</span></a></li><li><a class=c href=g17d-lux/><b>Vampire Metroid HD Lux</b><span>SVG environment, shader lights</span></a></li><li><a class=c href=g17e-close/><b>Vampire Metroid HD Close</b><span>follow camera, analog pad</span></a></li><li><a class=c href=bmx/><b>BMX Downhill Rush</b><span>cabinet edition (Excitebike x Skate or Die)</span></a></li><li><a class=c href=g1/><b>Block Commando</b><span>Contra x Tetris</span></a></li><li><a class=c href=g2/><b>Disc Fighters</b><span>Windjammers x Street Fighter II</span></a></li><li><a class=c href=g3/><b>Paper Rash</b><span>Paperboy x Road Rash</span></a></li><li><a class=c href=g4/><b>Boom Balloons</b><span>Balloon Fight x Bomberman</span></a></li><li><a class=c href=g5/><b>Grapple Ninja</b><span>Bionic Commando x Ninja Gaiden</span></a></li><li><a class=c href=g6/><b>Kung Fu Knockout</b><span>Kung-Fu Master x Punch-Out!!</span></a></li><li><a class=c href=g7/><b>Maze Wrecker</b><span>Pac-Man x Wrecking Crew</span></a></li><li><a class=c href=g8/><b>Morph Climb</b><span>Metroid x Kid Icarus</span></a></li><li><a class=c href=g9/><b>Dig Up</b><span>Dig Dug x Ice Climber</span></a></li><li><a class=c href=g10/><b>Gridlock Grand Prix</b><span>Pole Position x Frogger</span></a></li><li><a class=c href=g11/><b>Hop Fight</b><span>Q*bert x Joust</span></a></li><li><a class=c href=g12/><b>Blade Punch</b><span>Punch-Out!! x Blade Ball</span></a></li><li><a class=c href=g13/><b>Balatro Grand Prix</b><span>Mario Kart x Balatro</span></a></li><li><a class=c href=g14/><b>Buckshot Saloon</b><span>Sunset Riders x Buckshot Roulette</span></a></li><li><a class=c href=g15/><b>Kong Calamity</b><span>Donkey Kong Country x Natural Disaster Survival</span></a></li><li><a class=c href=g16/><b>Lethal Castlevania</b><span>Symphony of the Night x Lethal Company</span></a></li><li><a class=c href=g18/><b>Tower of Yoshi</b><span>Super Mario World x Tower of Hell</span></a></li><li><a class=c href=g19/><b>Mushroom BedWars</b><span>Super Mario Bros 3 x BedWars</span></a></li><li><a class=c href=g20/><b>Contra Helldivers</b><span>Contra x Helldivers 2</span></a></li><li><a class=c href=g21/><b>Hyrule DOORS</b><span>A Link to the Past x DOORS</span></a></li><li><a class=c href=g22/><b>Onett Mart Sim</b><span>EarthBound x Supermarket Simulator</span></a></li><li><a class=c href=g23/><b>Fisch of Mana</b><span>Secret of Mana x FISCH</span></a></li><li><a class=c href=g24/><b>Liars Tavern</b><span>Chrono Trigger x Liars Bar</span></a></li><li><a class=c href=g25/><b>SpookSnap 64</b><span>Pokemon Snap x Content Warning</span></a></li><li><a class=c href=g26/><b>Pet Quest 99</b><span>Dragon Quest x Pet Simulator 99</span></a></li><li><a class=c href=g27/><b>Deep Rock Dig Dug</b><span>Dig Dug x Deep Rock Galactic</span></a></li><li><a class=c href=g28/><b>Four Swords Murder</b><span>Four Swords x Murder Mystery 2</span></a></li><li><a class=c href=g29/><b>Dress to Quest</b><span>Final Fantasy VI x Dress to Impress</span></a></li><li><a class=c href=g30/><b>River City Cartel</b><span>River City Ransom x crime sim</span></a></li><li><a class=c href=g31/><b>Pal Harvest</b><span>Harvest Moon x Palworld</span></a></li><li><a class=c href=locker-room-last-stand/><b>Locker Room Last Stand</b><span>soldier vs zombies, native 8-bit rig</span></a></li><li><a class=c href=street-round/><b>Street Round</b><span>one-round arcade fighter</span></a></li><li><a class=c href=ryu-vs-guile/><b>Ryu vs Guile</b><span>full move list, one round</span></a></li><li><a class=c href=ryu-vs-guile-16bit/><b>Ryu vs Guile 16-bit</b><span>same fight, vector-drawn 16-bit look</span></a></li><li><a class=c href=floppy-race/><b>Floppy Race</b><span>ragdoll sprint: tap, jump, faceplant</span></a></li><li><a class=c href=training-dojo/><b>Training Dojo</b><span>dummy drill with the full move list</span></a></li><li><a class=c href=tournament-ladder/><b>Tournament Ladder</b><span>three fights, no health refill</span></a></li><li><a class=c href=boss-rush/><b>Boss Rush</b><span>one armoured boss</span></a></li><li><a class=c href=street-brawl/><b>Street Brawl</b><span>three gang waves and a boss</span></a></li><li><a class=c href=sumo-shove/><b>Sumo Shove</b><span>alternate-tap ring shove</span></a></li><li><a class=c href=fireball-dodgeball/><b>Fireball Dodgeball</b><span>jump low, duck high</span></a></li><li><a class=c href=grapple-duel/><b>Grapple Duel</b><span>strike, guard, throw mind game</span></a></li><li><a class=c href=crypt-gauntlet/><b>Crypt Gauntlet</b><span>top-down dungeon crawl: keys, food, bone piles</span></a></li><li><a class=c href=skyfire-42/><b>Skyfire 42</b><span>pick plane, tank or archer; CPU plays the rest</span></a></li></ul></body></html>
